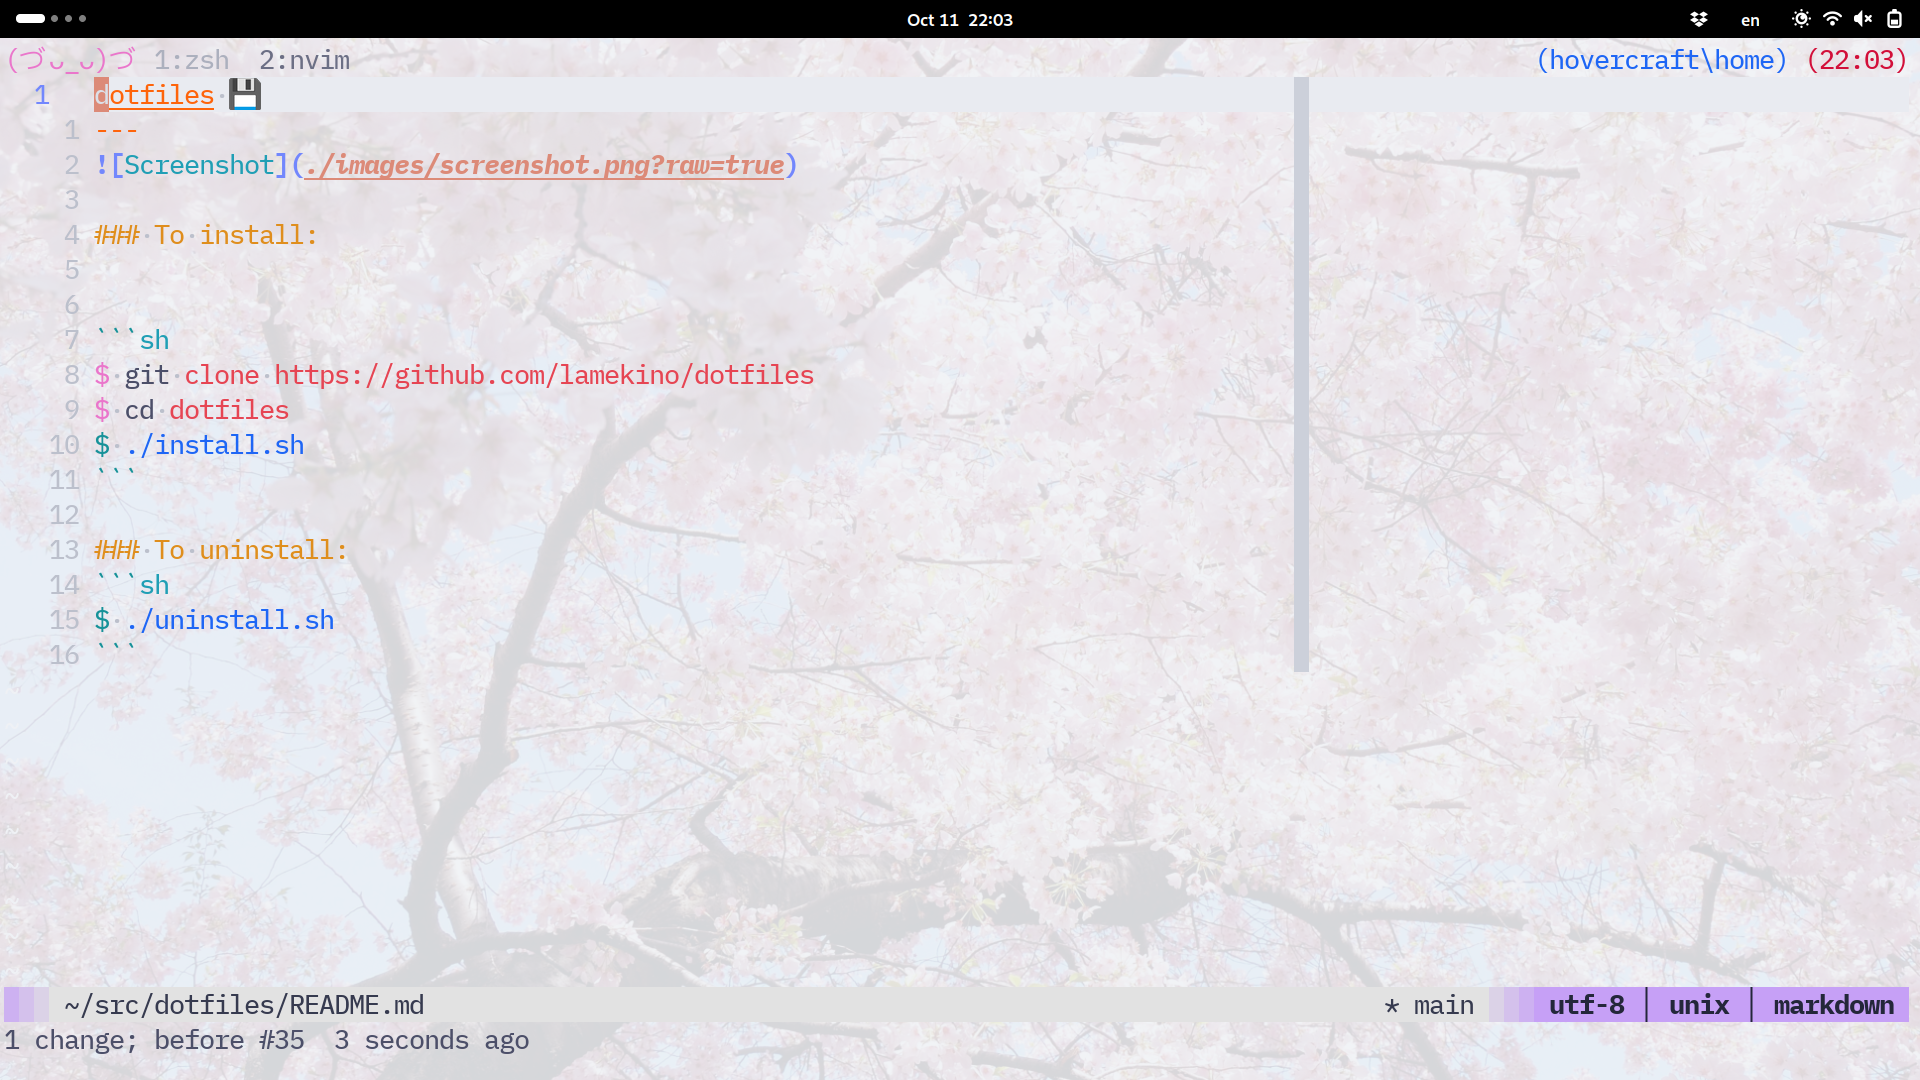
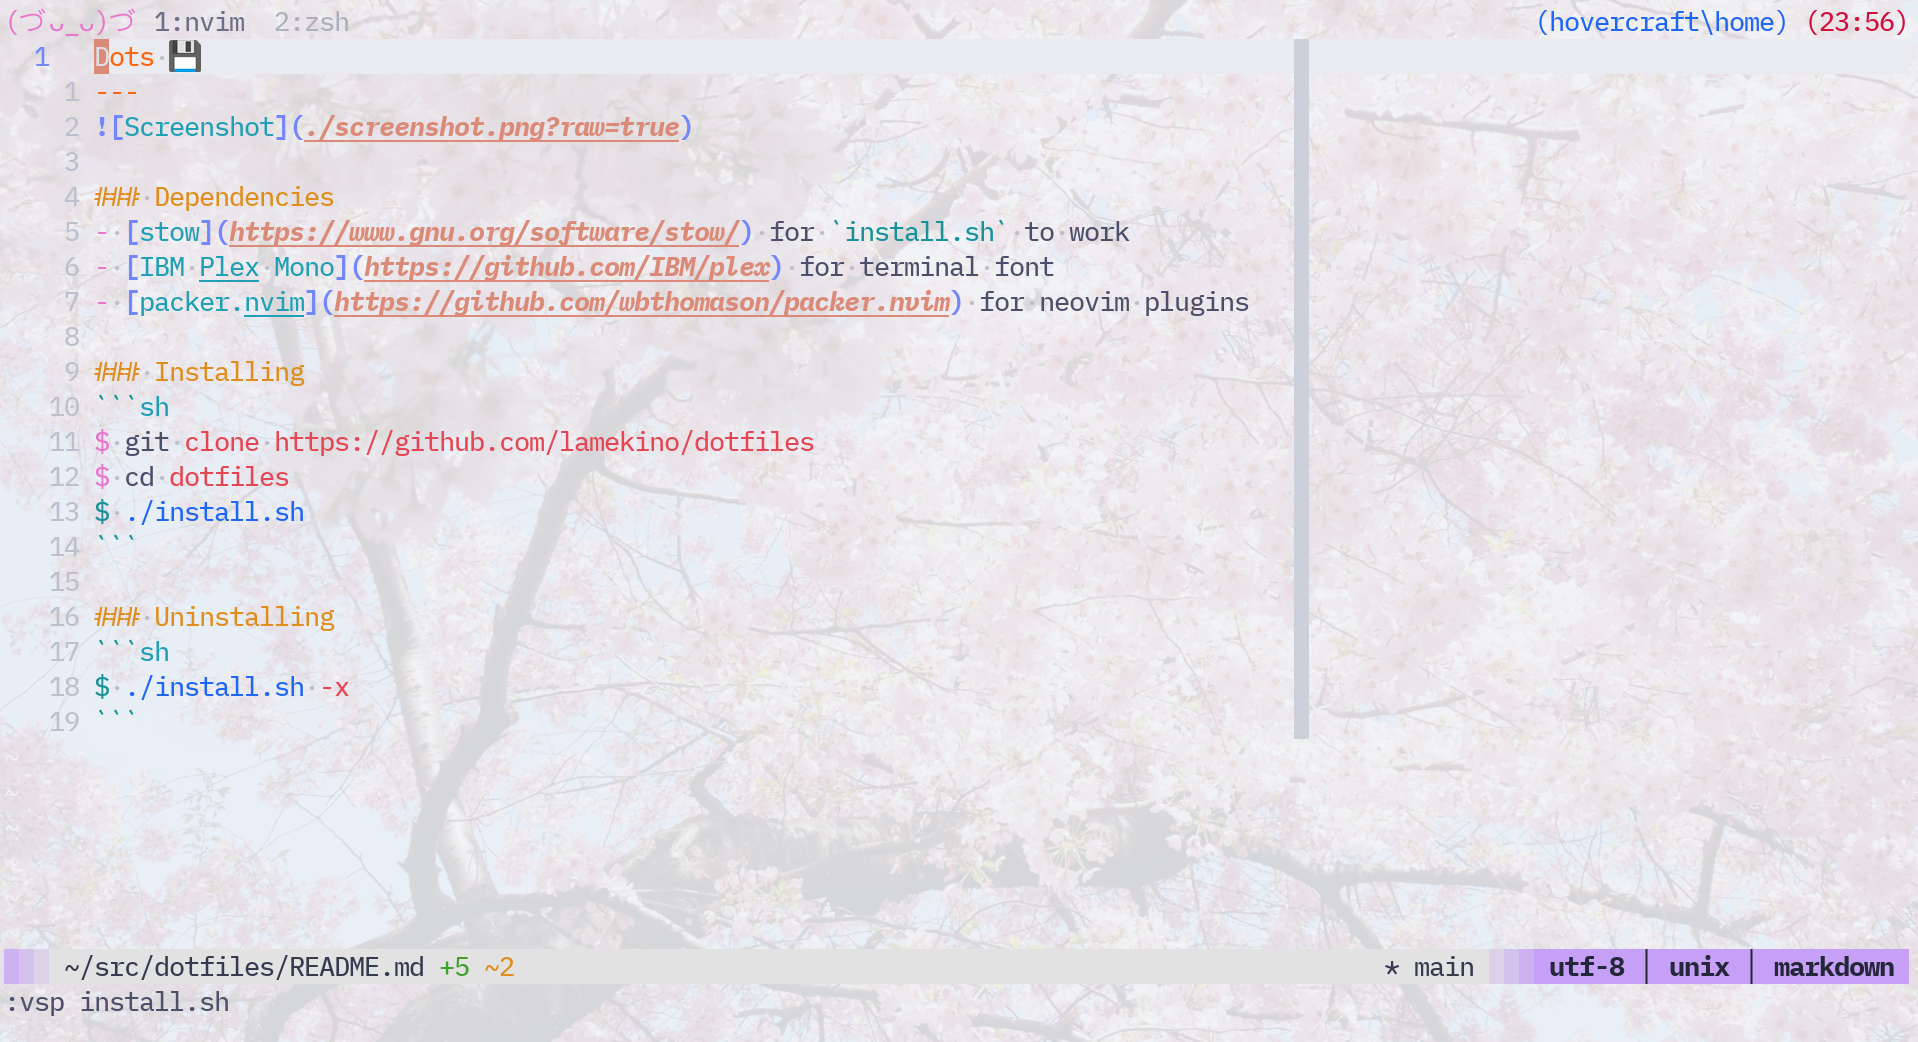
readme

diff --git a/README.md b/README.md
@@ -2,14 +2,19 @@ Dots 💾
 ---
 ![Screenshot](./screenshot.png?raw=true)
 
-### Installing:
+### Dependencies
+- [stow](https://www.gnu.org/software/stow/) for `install.sh` to work
+- [IBM Plex Mono](https://github.com/IBM/plex) for terminal font
+- [packer.nvim](https://github.com/wbthomason/packer.nvim) for neovim plugins
+
+### Installing
 ```sh
 $ git clone https://github.com/lamekino/dotfiles
 $ cd dotfiles
 $ ./install.sh
 ```
 
-### Uninstalling:
+### Uninstalling
 ```sh
 $ ./install.sh -x
 ```
